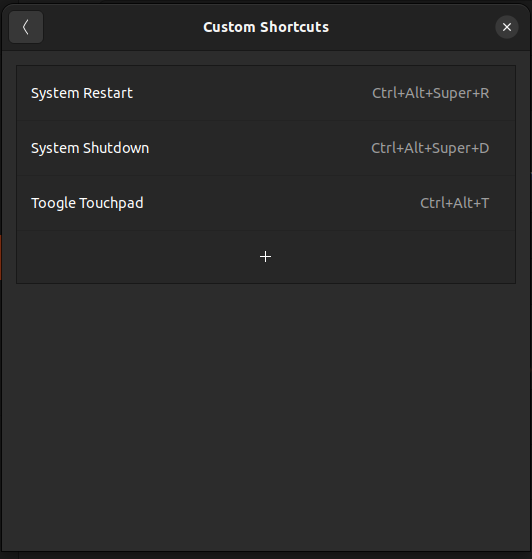
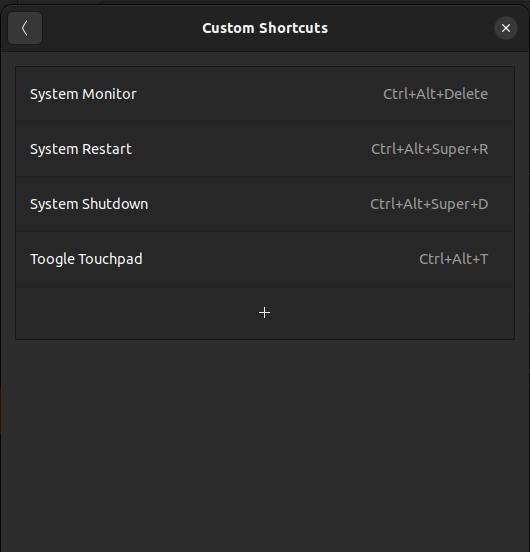
Save monitor task

diff --git a/UBUNTU/README.md b/UBUNTU/README.md
@@ -38,6 +38,11 @@
 
 ![my-settings-1](https://github.com/matheusicaro/private-helpers/blob/master/UBUNTU/imgs-my-settings/6.png)
 
+# [6 MONITOR TASK]
+
+![my-settings-1](https://github.com/matheusicaro/private-helpers/blob/master/UBUNTU/imgs-my-settings/6a.png)
+
+
 # [7]
 
 ![my-settings-1](https://github.com/matheusicaro/private-helpers/blob/master/UBUNTU/imgs-my-settings/7.png)
